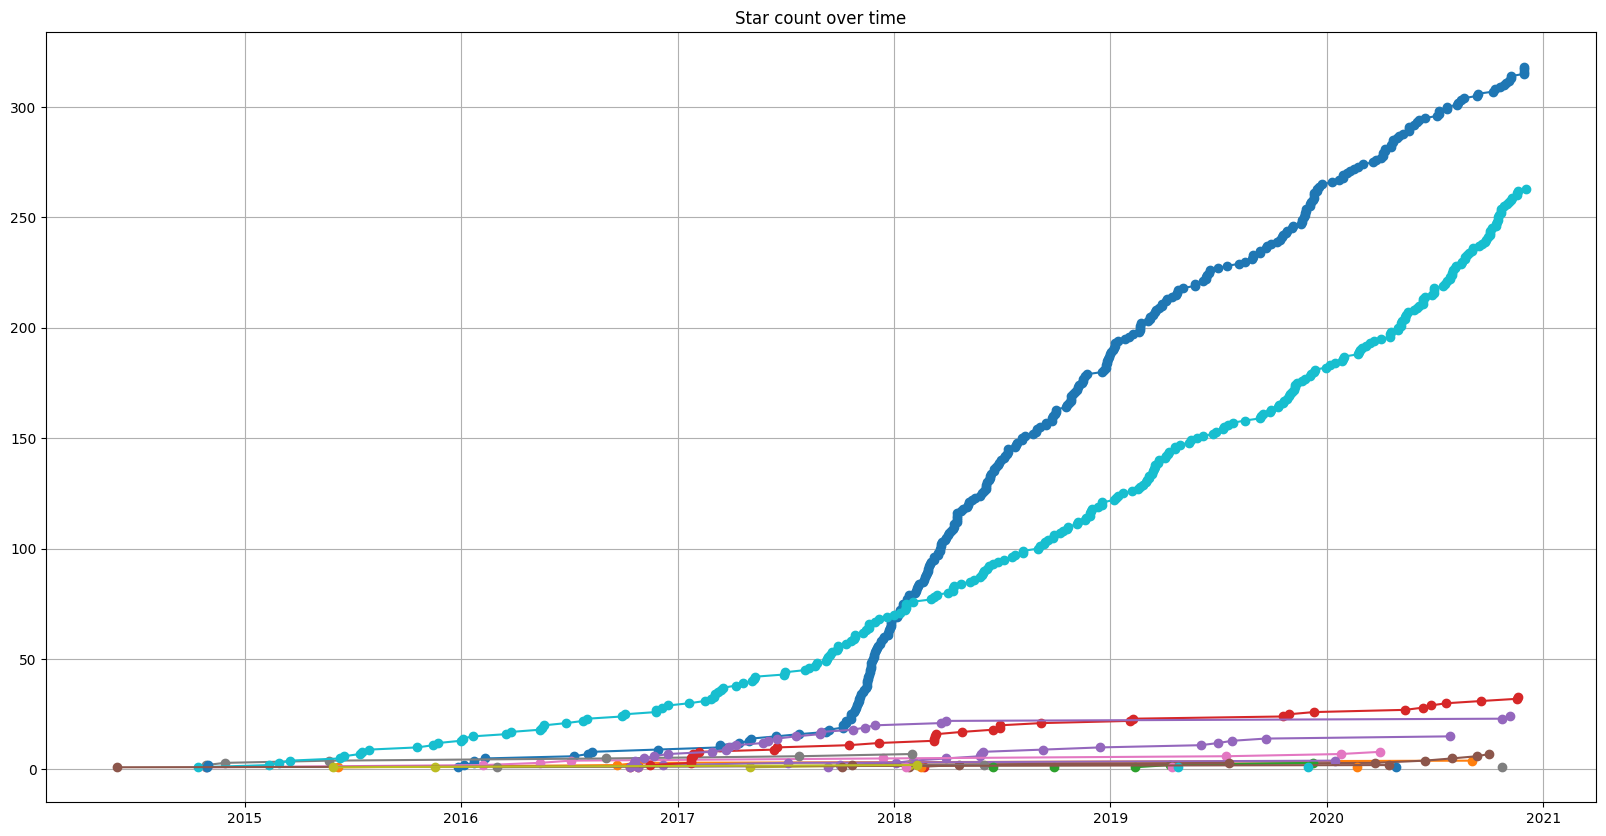
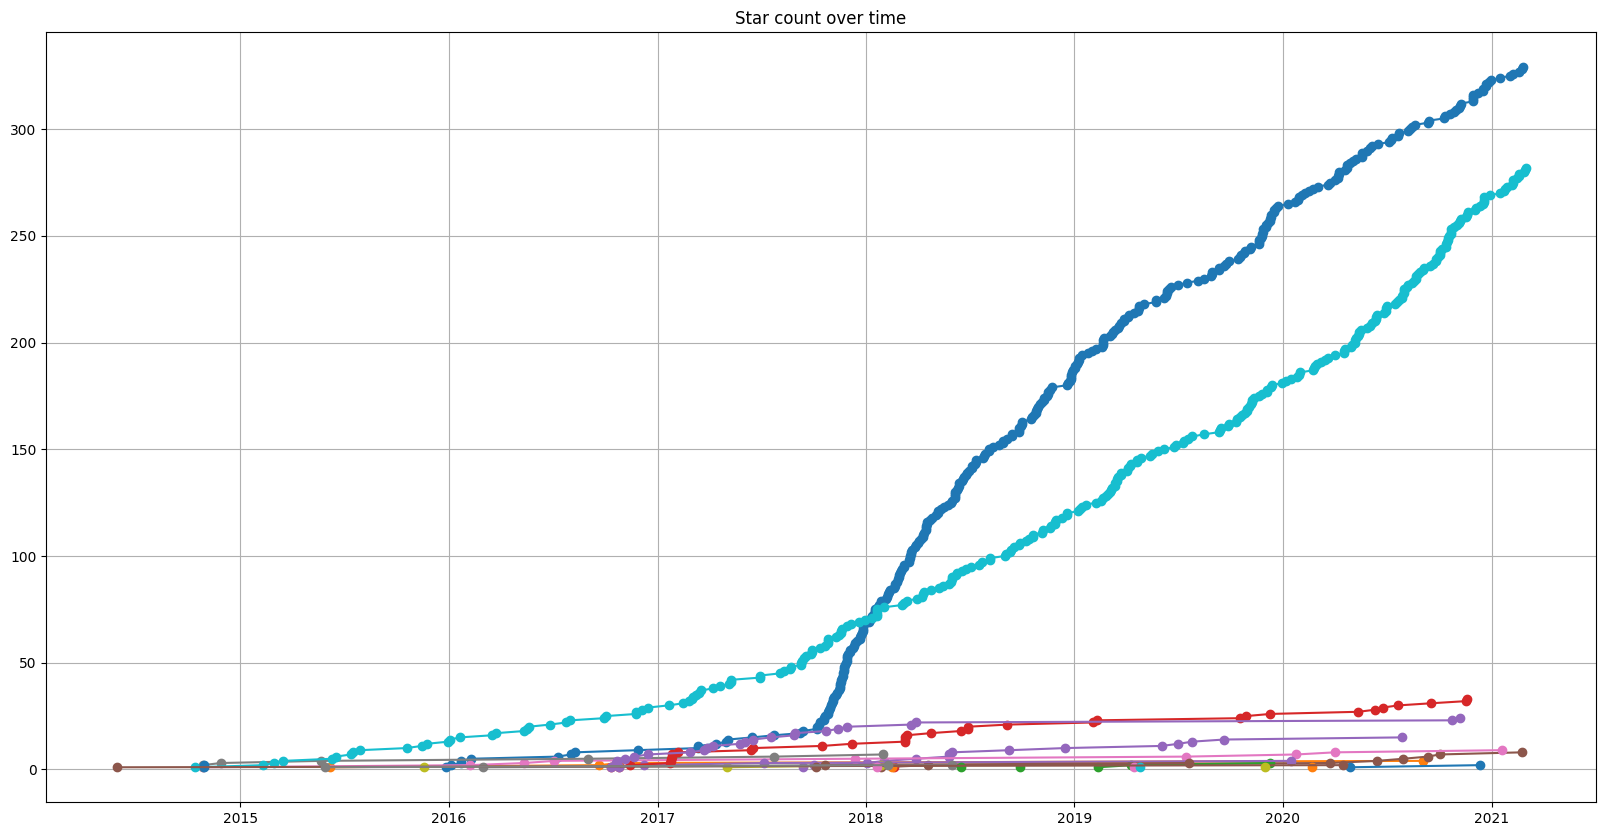
update

diff --git a/README.md b/README.md
@@ -3,15 +3,15 @@
 
 ![star plot](https://raw.github.com/FabriceSalvaire/github-map/master/star-plots/all.png)
 
-Overall stars: 617 :star:
+Overall stars: 744 :star:
 
 ## Python Packages
 
-* [PyDVI](https://github.com/FabriceSalvaire/PyDVI) 8 :star:</br>
+* [PyDVI](https://github.com/FabriceSalvaire/PyDVI) 9 :star:</br>
 
    PyDvi is a Python library to read and process DVI (DeVice Independent) files, the native output of LaTeX. The library provides a DVI machine as a base class which can be extended by the user and plugged to a TeX daemon in order to render contents on-the-fly. Also the source code provides a DVI viewer featuring an hardware accelerated rendering on GPU.
 
-   Updated on 2020-03-31
+   Updated on 2021-01-17
 
 * [PyOpenGLng](https://github.com/FabriceSalvaire/PyOpenGLng) 7 :star:</br>
 
@@ -45,17 +45,17 @@ Overall stars: 617 :star:
 
 ## Python Tools for Developers
 
-* [CodeReview](https://github.com/FabriceSalvaire/CodeReview) 292 :star:</br>
+* [CodeReview](https://github.com/FabriceSalvaire/CodeReview) 329 :star:</br>
 
    CodeReview is a Git GUI tool to perform code review (Diff Viewer) written in Python3 and Qt5.
 
-   Updated on 2020-05-19
+   Updated on 2021-02-23
 
 * [github-map](https://github.com/FabriceSalvaire/github-map)
 
    A summary of my projects on Github (using API and Python)
 
-   Updated on 2020-05-04
+   Updated on 2020-12-02
 
 * [python-memo](https://github.com/FabriceSalvaire/python-memo)
 
@@ -71,6 +71,12 @@ Overall stars: 617 :star:
 
 ### Sphinx Documentation Generator
 
+* [Pyterate](https://github.com/FabriceSalvaire/Pyterate) 2 :star:</br>
+
+   Pyterate is Sphinx add-ons to generate documentation for Python projects
+
+   Updated on 2020-12-11
+
 * [sphinx-css3image](https://github.com/FabriceSalvaire/sphinx-css3image) 2 :star:</br>
 
    This plugin provides an enhanced image directive with additional CSS properties for Sphinx Documentation Generator.
@@ -82,12 +88,6 @@ Overall stars: 617 :star:
    Microdata semantic markups support for Sphinx Documentation Generator.
 
    Updated on 2018-02-07
-
-* [Pyterate](https://github.com/FabriceSalvaire/Pyterate) 1 :star:</br>
-
-   Pyterate is Sphinx add-ons to generate documentation for Python projects
-
-   Updated on 2020-05-19
 
 * [sphinx-getthecode](https://github.com/FabriceSalvaire/sphinx-getthecode) 1 :star:</br>
 
@@ -105,7 +105,7 @@ Overall stars: 617 :star:
 
    Sphinx extension for Lylipond
 
-   Updated on 2020-01-04
+   Updated on 2020-12-10
 
 * [sphinx-sass-theme](https://github.com/FabriceSalvaire/sphinx-sass-theme)
 
@@ -181,17 +181,17 @@ Overall stars: 617 :star:
 
 ## Python for Electronic
 
-* [PySpice](https://github.com/FabriceSalvaire/PySpice) 209 :star:</br>
+* [PySpice](https://github.com/FabriceSalvaire/PySpice) 282 :star:</br>
 
    Simulate electronic circuit using Python and the Ngspice / Xyce simulators
 
-   Updated on 2020-05-16
+   Updated on 2021-03-01
 
-* [PyCpuSimulator](https://github.com/FabriceSalvaire/PyCpuSimulator) 3 :star:</br>
+* [PyCpuSimulator](https://github.com/FabriceSalvaire/PyCpuSimulator) 8 :star:</br>
 
    CPU Simulator written in Python
 
-   Updated on 2020-04-08
+   Updated on 2021-02-22
 
 * [PyResistorColorCode](https://github.com/FabriceSalvaire/PyResistorColorCode) 2 :star:</br>
 
@@ -235,11 +235,11 @@ Overall stars: 617 :star:
 
 ## Python for Pattern Drafting
 
-* [Patro](https://github.com/FabriceSalvaire/Patro) 14 :star:</br>
+* [Patro](https://github.com/FabriceSalvaire/Patro) 15 :star:</br>
 
    A Python library to make patterns for fashion design
 
-   Updated on 2020-05-15
+   Updated on 2020-07-26
 
 * [Patro-data](https://github.com/FabriceSalvaire/Patro-data)
 
@@ -285,11 +285,11 @@ Overall stars: 617 :star:
 
 ## Python Applications (PyQt5)
 
-* [LaptopControlPanel](https://github.com/FabriceSalvaire/LaptopControlPanel) 3 :star:</br>
+* [LaptopControlPanel](https://github.com/FabriceSalvaire/LaptopControlPanel) 4 :star:</br>
 
    LaptopControlPanel is a Python module that provides a Graphical Control Panel for Lenovo Thinkpad Laptop and a console tool to monitor and manage the battery.
 
-   Updated on 2017-11-21
+   Updated on 2020-09-02
 
 * [book-browser](https://github.com/FabriceSalvaire/book-browser) 3 :star:</br>
 
@@ -337,11 +337,11 @@ Overall stars: 617 :star:
 
 ## Web
 
-* [redmine-improved-theme](https://github.com/FabriceSalvaire/redmine-improved-theme) 22 :star:</br>
+* [redmine-improved-theme](https://github.com/FabriceSalvaire/redmine-improved-theme) 24 :star:</br>
 
    Redmine theme forked from the vanilla Redmine theme and converted to SASS
 
-   Updated on 2020-04-16
+   Updated on 2020-11-25
 
 * [css-demo](https://github.com/FabriceSalvaire/css-demo)
 
@@ -351,11 +351,11 @@ Overall stars: 617 :star:
 
 ## Qt
 
-* [qt5-vector-graphic-shaders](https://github.com/FabriceSalvaire/qt5-vector-graphic-shaders) 27 :star:</br>
+* [qt5-vector-graphic-shaders](https://github.com/FabriceSalvaire/qt5-vector-graphic-shaders) 33 :star:</br>
 
    A Qt5 application to experiment vector graphic shaders
 
-   Updated on 2020-05-12
+   Updated on 2020-11-18
 
 ## MuPDF
 
